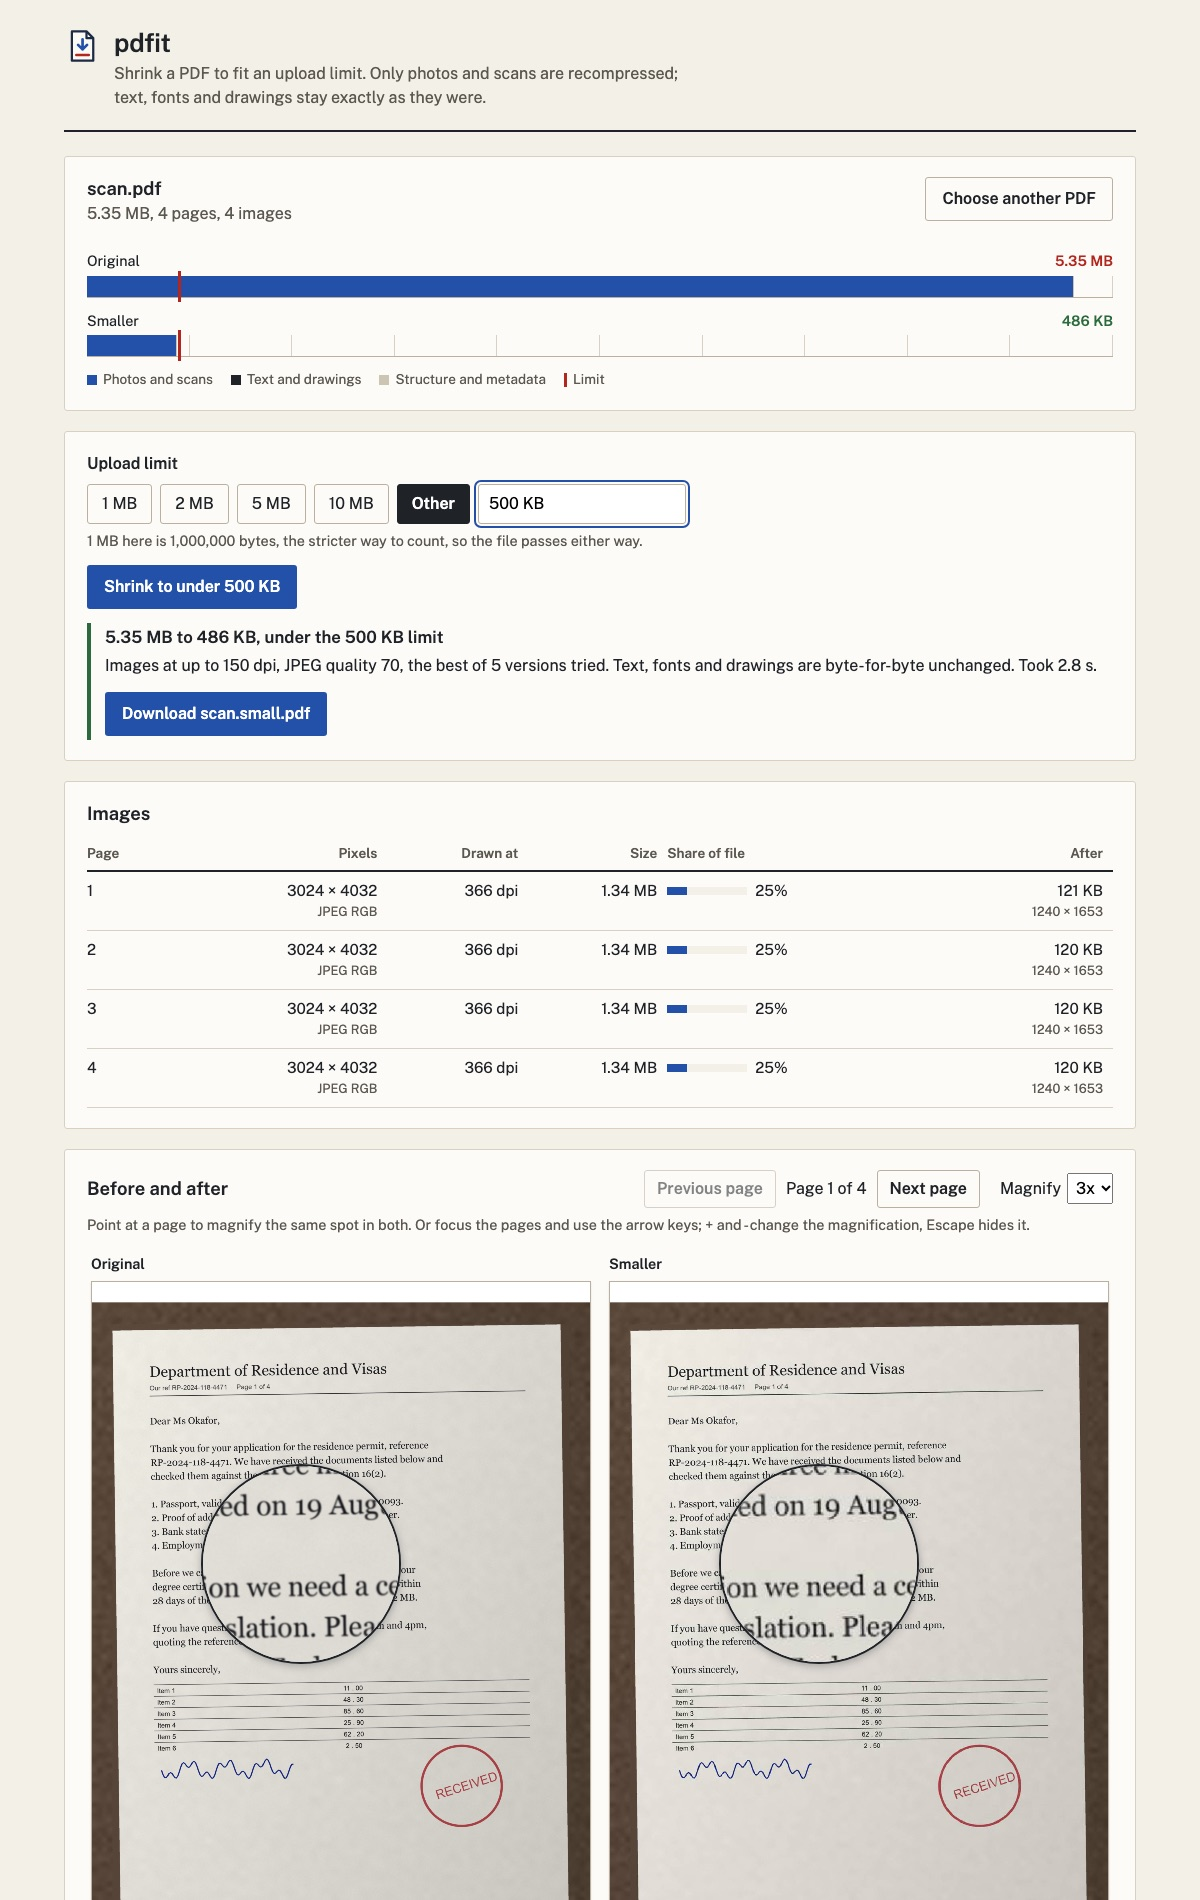
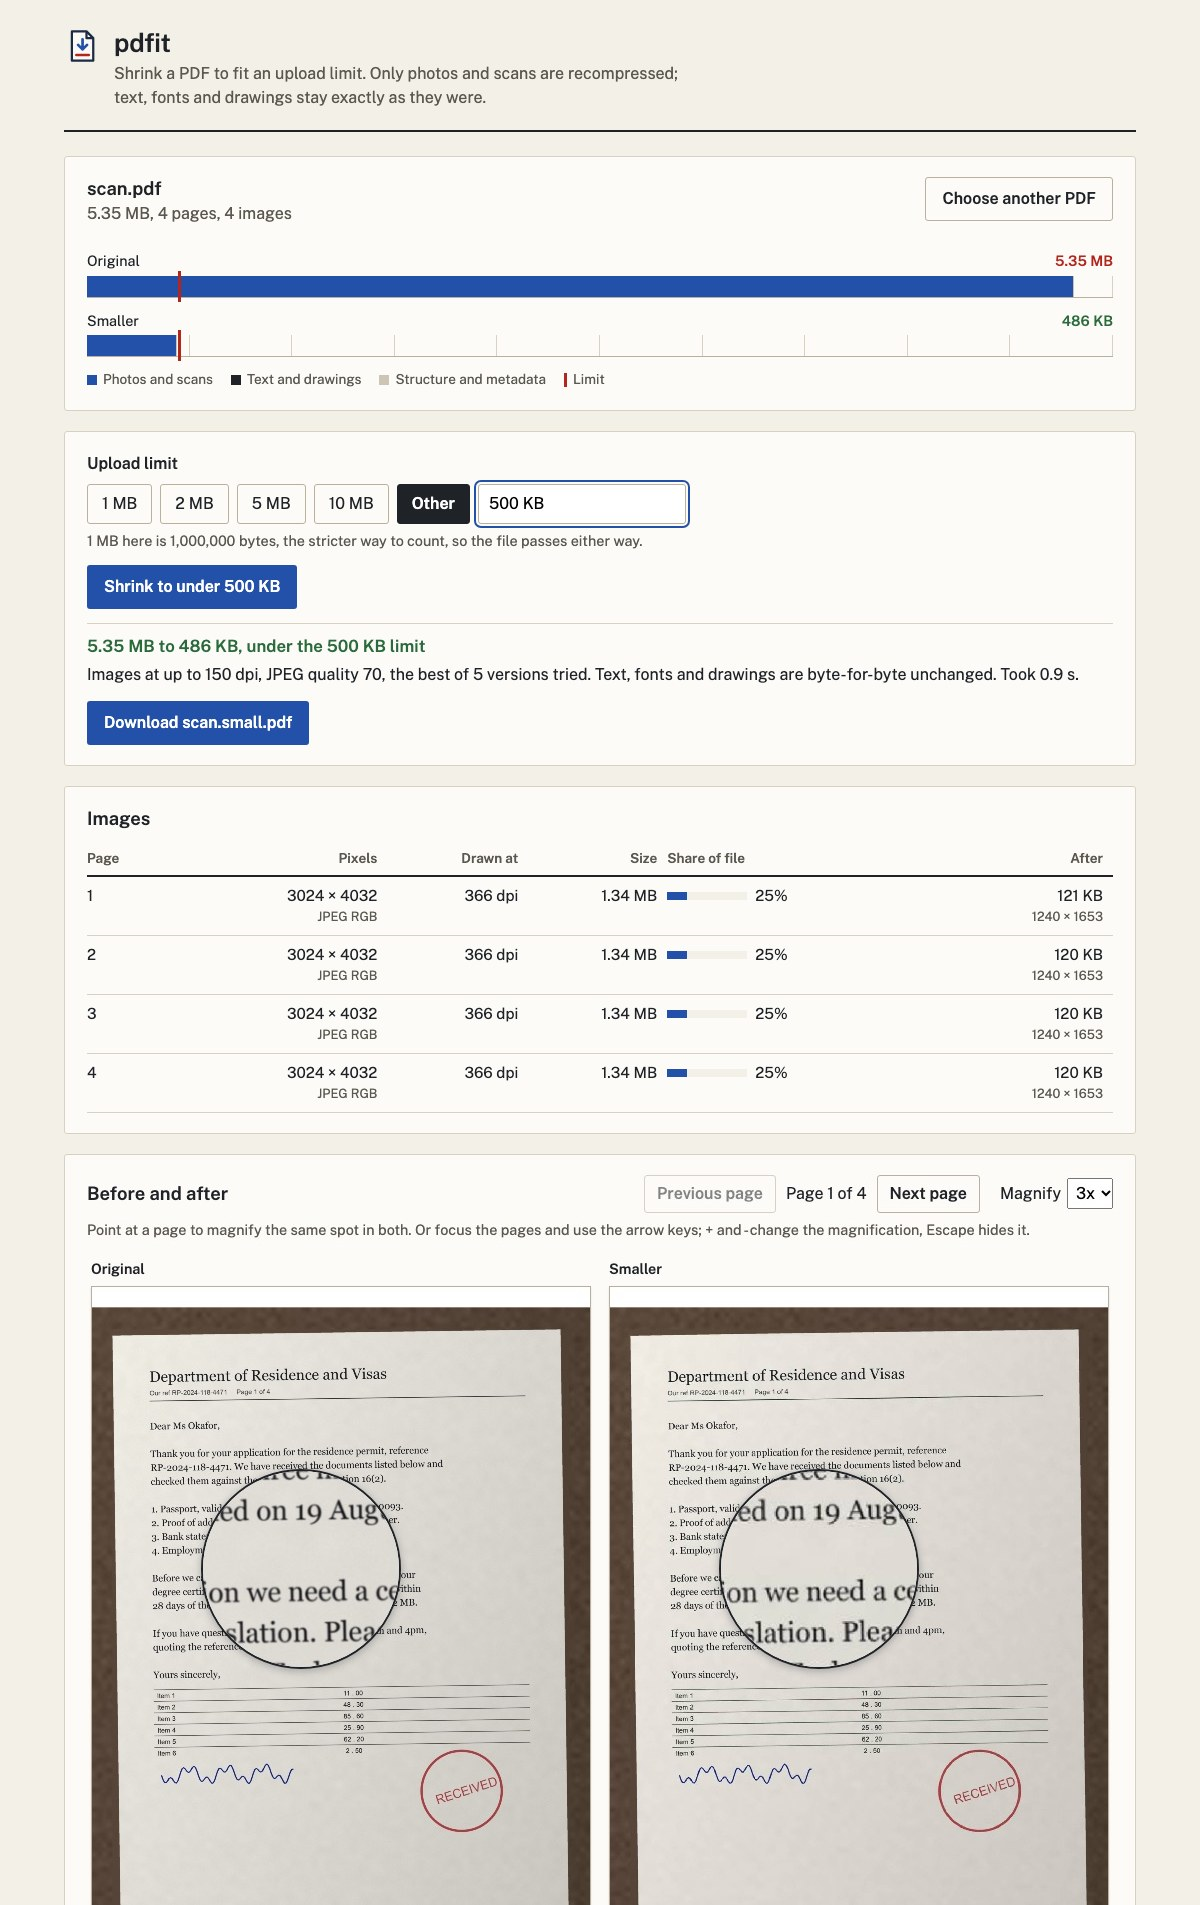
Set the result off with a thin rule and a coloured heading, and update the screenshot

diff --git a/web/src/app.css b/web/src/app.css
@@ -383,12 +383,12 @@ button:disabled {
 }
 
 .verdict {
-  border-left: 4px solid var(--green);
-  padding: 4px 0 4px 14px;
+  border-top: 1px solid var(--rule);
+  padding-top: 12px;
 }
 
-.verdict.short {
-  border-left-color: var(--red);
+.verdict h3 {
+  color: var(--green);
 }
 
 .verdict.short h3 {
